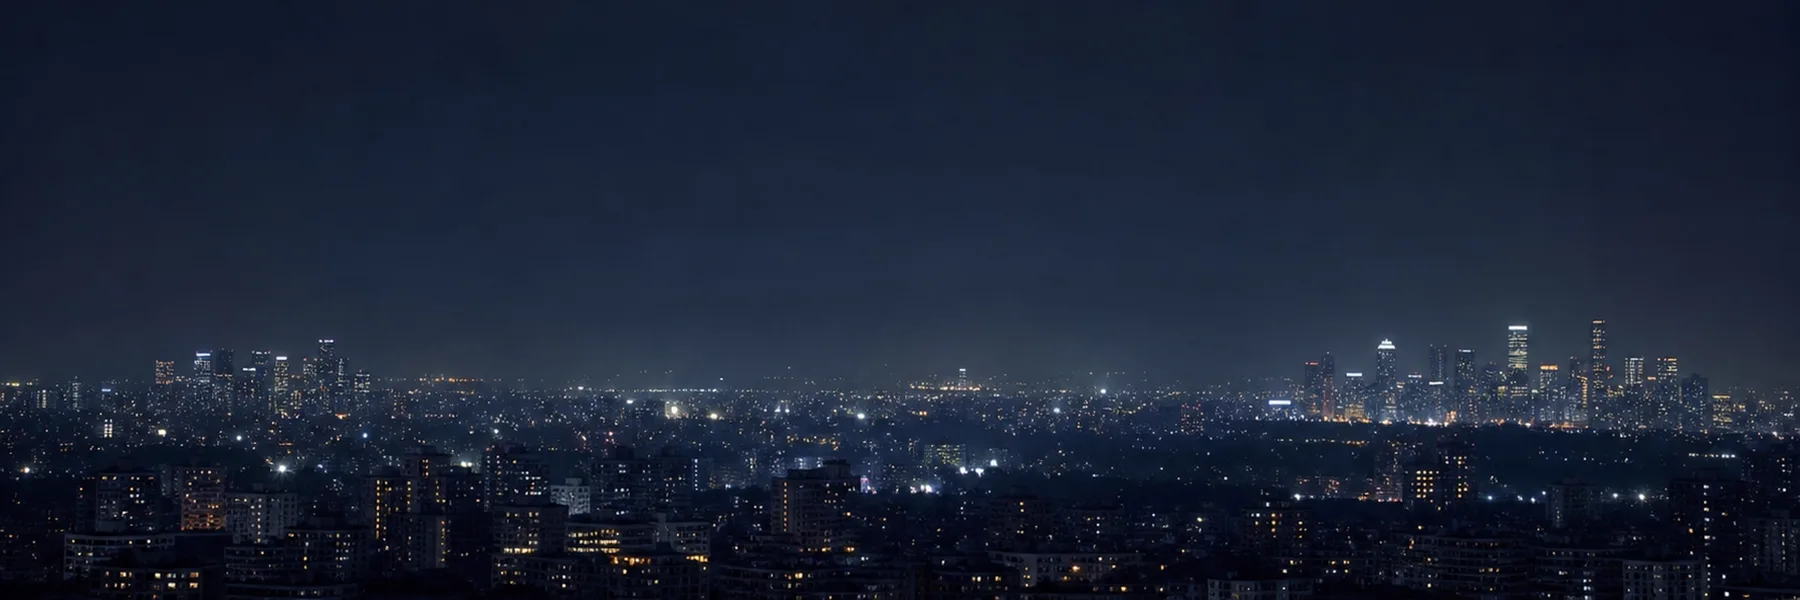
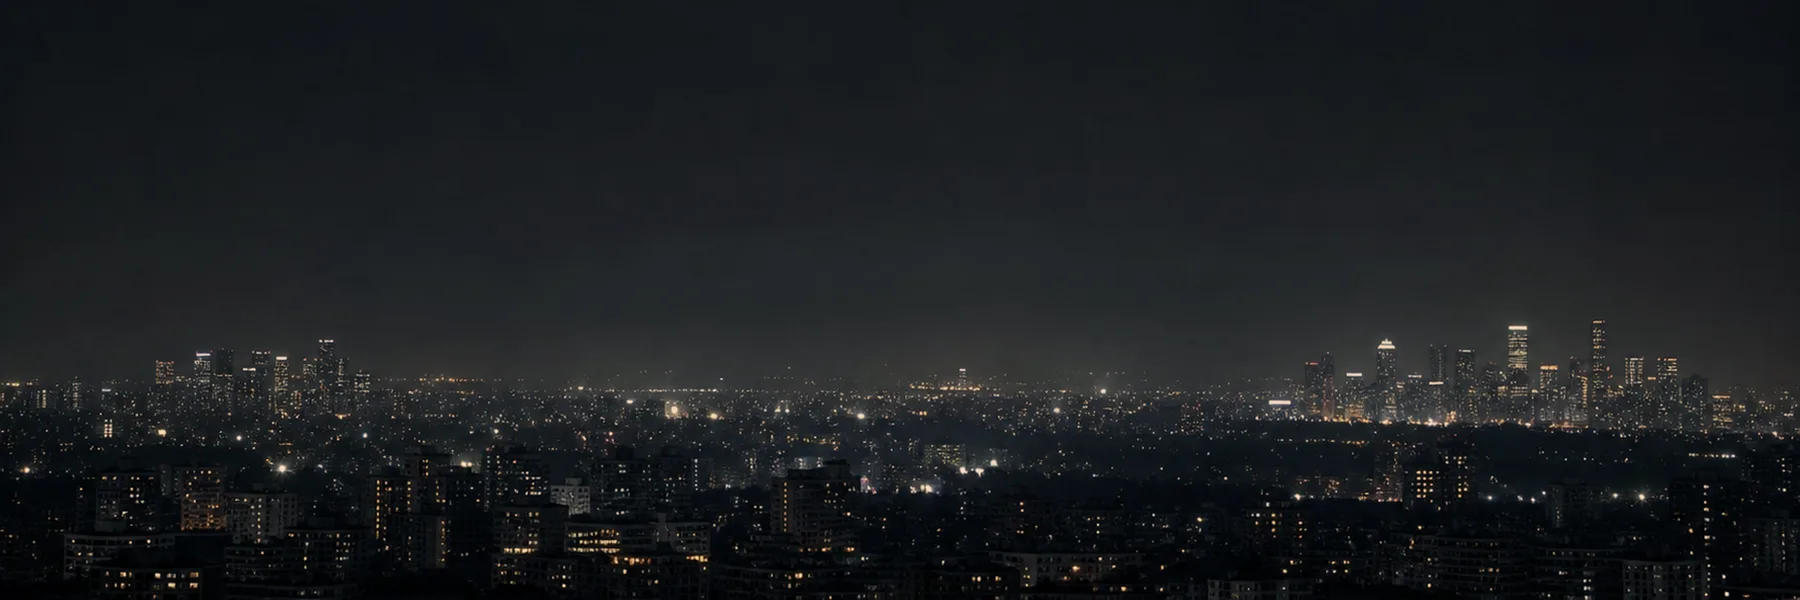
팔레트 버건디 전환 — OKLCH 회전으로 위계 보존
포인트 #bc003a, 사이드바 #481820, 로즈 액센트 #e05c72. 도시 사진 웜톤 보정,
인트로 액센트 중립화(파란 실크 영상과 충돌 회피). 헌법 개정.

diff --git a/web/intro.html b/web/intro.html
@@ -5,17 +5,17 @@
   <meta name="viewport" content="width=device-width, initial-scale=1.0">
   <link rel="icon" href="assets/logo.svg" type="image/svg+xml">
   <title>마이가디언</title>
-  <meta name="theme-color" content="#102a4e">
+  <meta name="theme-color" content="#481820">
   <link rel="stylesheet" href="https://cdn.jsdelivr.net/gh/orioncactus/pretendard@v1.3.9/dist/web/variable/pretendardvariable-dynamic-subset.min.css">
   <style>
-    /* 인트로 리스킨 — 홈 네이비 커버 시그니처 확장: 순색 #102a4e + 그레인 + 방패 워터마크 + 상단 3px 시안.
+    /* 인트로 리스킨 — 홈 네이비 커버 시그니처 확장: 순색 #481820 + 그레인 + 방패 워터마크 + 상단 3px 시안.
        그라데이션·등장 애니메이션 제거(헌법 모션: 0.14s 색 전환만). 로직 무변경 — 시각만.
        질감 레시피는 홈(web/index.html)과 동일 복제 — 사용처 2곳이라 공용 파일화 보류(3곳째에 공용화). */
     * { margin: 0; padding: 0; box-sizing: border-box; }
     html, body { height: 100%; }
     body {
       font-family: "Pretendard Variable", "Pretendard", -apple-system, BlinkMacSystemFont, "Malgun Gothic", sans-serif;
-      background: #102a4e;
+      background: #481820;
       color: #fff;
       overflow: hidden;
       word-break: keep-all;
@@ -23,7 +23,6 @@
     }
 
     /* 상단 3px 시안 라인 — 사이드바·홈 커버와 짝 */
-    body::before { content: ""; position: fixed; top: 0; left: 0; right: 0; height: 3px; background: #00a6c7; z-index: 10; }
 
     /* 배경 — 순색 네이비 + 방패 워터마크(우측, white 0.05) + 그레인(알파 0.05 소부) */
     /* 배경 영상 (헌법 2026-08-02 예외 조항: 인트로 한정·무음·심리스 루프·5MB 이하·자체 호스팅)
@@ -50,11 +49,11 @@
 
     /* 브랜드 블록 — 기존 문자열 그대로, 정적 표시 */
     .type { text-align:center; min-height: 34vh; display:flex; flex-direction:column; align-items:center; justify-content:center; }
-    .kicker { font-size: clamp(14px,2.4vw,18px); font-weight:600; letter-spacing:0.06em; color:#43c8df; }
+    .kicker { font-size: clamp(14px,2.4vw,18px); font-weight:600; letter-spacing:0.06em; color:rgba(255,255,255,0.66); }
     .title { font-size: clamp(44px,9vw,88px); font-weight:800; letter-spacing:-0.03em; line-height:1.05;
       margin: 10px 0 4px; }
     .desc { font-size: clamp(16px,3vw,24px); font-weight:500; color:rgba(255,255,255,0.82); }
-    .desc .dot { color:#43c8df; margin:0 2px; }
+    .desc .dot { color:#f095a5; margin:0 2px; }
 
     .actions { display:flex; flex-direction:column; gap:12px; align-items:center; }
     .actions-row { display:flex; gap:12px; flex-wrap:wrap; justify-content:center; }
@@ -69,8 +68,8 @@
       border-radius:4px; font:inherit; font-size:15px; font-weight:700; cursor:pointer;
       border:1px solid transparent; text-decoration:none;
       transition: background-color 0.14s ease, border-color 0.14s ease, color 0.14s ease; }
-    .btn-enter { background:#0758d6; color:#fff; }
-    .btn-enter:hover { background:#0648ad; }
+    .btn-enter { background:#bc003a; color:#fff; }
+    .btn-enter:hover { background:#980130; }
     .btn-ghost { background:transparent; color:rgba(255,255,255,0.82); border-color:rgba(255,255,255,0.28); }
     .btn-ghost:hover { border-color:rgba(255,255,255,0.6); color:#fff; }
     .btn svg { width:18px; height:18px; }

diff --git a/web/assets/platform.css b/web/assets/platform.css
@@ -5,12 +5,12 @@
   --platform-ink: #172033;
   --platform-muted: #596579;
   --platform-faint: #647082; /* 흰 바탕 5.0:1 · 캔버스(#f5f7fa) 4.7:1 — 구값 #717d8f는 실측 4.17로 AA 미달이었다 (2026-07-29 교정) */
-  --platform-blue: #0758d6;
-  --platform-blue-dark: #0648ad;
-  --platform-blue-soft: #edf4ff;
-  --platform-navy: #102a4e;
-  --platform-navy-deep: #0a1d37;
-  --platform-cyan: #00a6c7;
+  --platform-blue: #bc003a;
+  --platform-blue-dark: #980130;
+  --platform-blue-soft: #ffeff0;
+  --platform-navy: #481820;
+  --platform-navy-deep: #331016;
+  --platform-cyan: #e05c72;
   --platform-line: #dfe4eb;
   --platform-line-strong: #cbd3de;
   --platform-paid: #15803d;
@@ -27,7 +27,7 @@
   --platform-ink: #f1f5f9;
   --platform-muted: #a6b0c1;
   --platform-faint: #7b8798;
-  --platform-blue: #60a5fa;
+  --platform-blue: #f4849a;
   --platform-blue-soft: rgba(37, 99, 235, 0.16);
   --platform-line: #2a3545;
   --platform-line-strong: #3a4657;
@@ -1107,7 +1107,7 @@ body.platform {
 }
 
 .st-recall { color: #8a4c07; background: #f7ead6; }
-.st-meet { color: #0648ad; background: #edf4ff; }
+.st-meet { color: #980130; background: #ffeff0; }
 .st-met { color: #087a55; background: #e1f2eb; }
 .st-hold { color: #596579; background: #eef1f5; }
 .st-reject { color: #b3261e; background: #f8dfd9; }
@@ -1138,7 +1138,7 @@ body.platform {
 }
 
 .status-btn.on.st-recall { color: #8a4c07; background: #f7ead6; border-color: #e5cfa4; }
-.status-btn.on.st-meet { color: #0648ad; background: #edf4ff; border-color: #b9d4f8; }
+.status-btn.on.st-meet { color: #980130; background: #ffeff0; border-color: #b9d4f8; }
 .status-btn.on.st-met { color: #087a55; background: #e1f2eb; border-color: #b2ddcb; }
 .status-btn.on.st-hold { color: #435066; background: #eef1f5; border-color: #cbd3de; }
 .status-btn.on.st-reject { color: #b3261e; background: #f8dfd9; border-color: #edbcb3; }

diff --git a/web/index.html b/web/index.html
@@ -8,7 +8,7 @@
   <link rel="stylesheet" href="https://cdn.jsdelivr.net/gh/orioncactus/pretendard@v1.3.9/dist/web/variable/pretendardvariable-dynamic-subset.min.css">
   <link rel="stylesheet" href="assets/platform.css">
   <link rel="manifest" href="manifest.webmanifest">
-  <meta name="theme-color" content="#102a4e">
+  <meta name="theme-color" content="#481820">
   <script src="assets/platform.js"></script>
   <script src="assets/auth.js"></script>
   <style>

diff --git a/CLAUDE.md b/CLAUDE.md
@@ -54,10 +54,12 @@
   - 고객 화면(care/card/r) = 가독성 + 잡지급 디자인 퀄리티. 기준 실물은 포브스·매경이코노미류 경제지의 편집 문법(제호·킥커·표제 위계·1단 본문 조판·인용구·헤어라인·이미지 캡션·칼럼 박스).
   - 목표 수준: 현존 업계 최고이자 앞으로도 최고 — 디자인과 가독성 모두. "이 정도면 됐다"는 없다.
 - 케어센터 편집장 원칙: 발행인이 누구든 편집장은 항상 안창민이다 (표지·판권 명기, 팀원 호는 발행 OOO FC 병기).
-- 팔레트(2026-07-20 개정 — 스레드 인텔리전스 디자인 언어 이식): 캔버스 `#f5f7fa`, 카드 표면 `#ffffff`,
-  텍스트 잉크 `#172033`, 보조 `#596579`, 3차 `#8993a3`, 테두리 `#dfe4eb`(입력창 `#cbd3de`),
-  포인트 블루 `#0758d6`(hover `#0648ad`, 연파랑 배경쌍 `#edf4ff`), 사이드바 네이비 `#102a4e`,
-  시안 액센트 `#00a6c7`, 상태색 지급=그린·부지급=레드·일부지급=앰버(연한 동색 배경 + 진한 동색 텍스트 쌍).
+- 팔레트(2026-08-02 개정 — 버건디 채택, OKLCH 회전으로 위계 보존 변환): 캔버스 `#f5f7fa`,
+  카드 표면 `#ffffff`, 텍스트 잉크 `#172033`, 보조 `#596579`, 3차 `#8993a3`, 테두리 `#dfe4eb`
+  (입력창 `#cbd3de`), 포인트 버건디 `#bc003a`(hover `#980130`, 연배경쌍 `#ffeff0`),
+  사이드바 딥버건디 `#481820`(deep `#331016`), 로즈 액센트 `#e05c72`,
+  상태색 지급=그린·부지급=레드·일부지급=앰버(연한 동색 배경 + 진한 동색 텍스트 쌍 — 부지급 레드는
+  포인트 버건디와 혼동되지 않게 주의). 이 팔레트는 하랑지점·보장분석 파이프라인에도 공통 적용 예정.
 - 장식 목적의 색상 사용 금지. 색은 신호로만 쓴다. 포인트 블루는 주액션·활성·선택·링크에만. 골드 `#c9a14a`는 카톡카드·인쇄물 전용.
 - 2-톤 구조: 다크 네이비 사이드바(상단 시안 4px 라인) + 라이트 콘텐츠. 사이드바 활성 항목은 좌측 시안 막대.
 - 면 구분은 그림자가 아니라 선으로 한다: 1px 테두리 중심, 그림자는 `0 1px 3px` 극미세만 허용.
